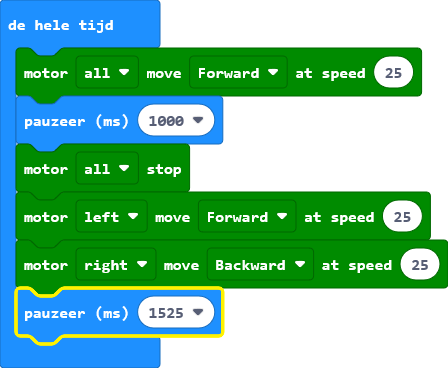
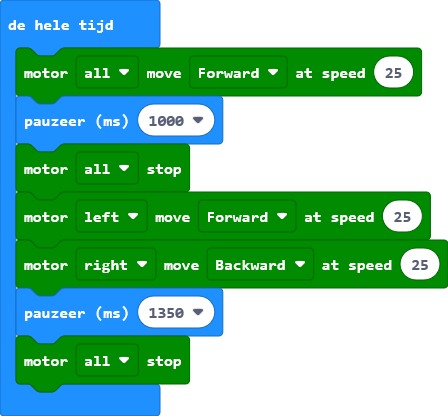
main.blocks, main.ts bijwerken

diff --git a/main.ts b/main.ts
@@ -4,5 +4,6 @@ basic.forever(function () {
     maqueen.motorStop(maqueen.Motors.All)
     maqueen.motorRun(maqueen.Motors.M1, maqueen.Dir.CW, 25)
     maqueen.motorRun(maqueen.Motors.M2, maqueen.Dir.CCW, 25)
-    basic.pause(1525)
+    basic.pause(1350)
+    maqueen.motorStop(maqueen.Motors.All)
 })
